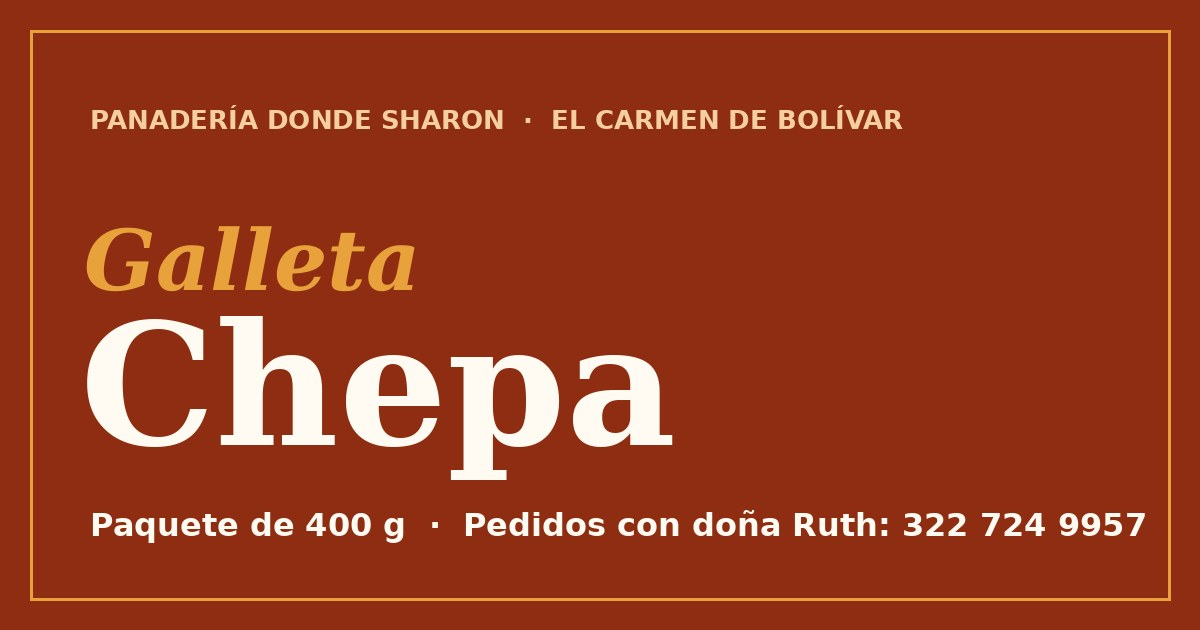
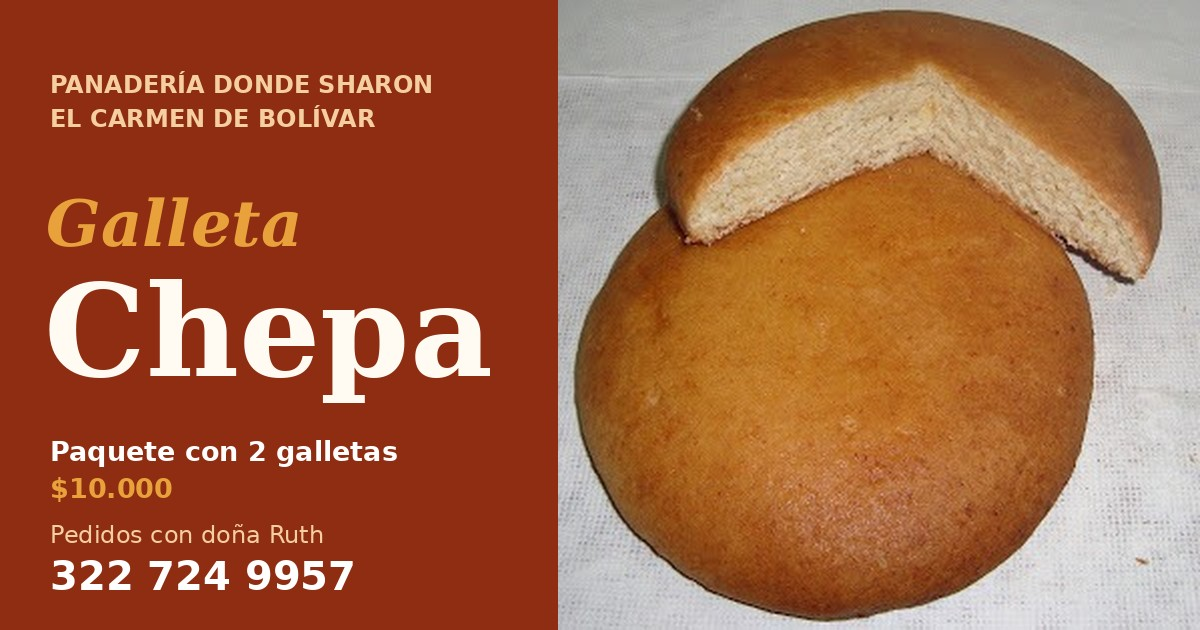
Foto real de la Galleta ChepaCorina, texto de la tradición y vista previa con la foto
Claude-Session: https://claude.ai/code/session_01Qv96KUHaLKGcvTpVN3B1SB

diff --git a/index.html b/index.html
@@ -62,6 +62,7 @@ a{color:inherit}
 @keyframes flota{0%,100%{transform:translateY(0) rotate(-2deg)}50%{transform:translateY(-10px) rotate(-1deg)}}
 .vitrina img{position:absolute;inset:0;width:100%;height:100%;object-fit:cover;border-radius:22px;box-shadow:0 30px 60px -20px rgba(0,0,0,.65);display:none}
 .vitrina.con-foto img{display:block}
+.vitrina.con-foto{aspect-ratio:1/1}
 .vitrina.con-foto .etiqueta{display:none}
 .etiqueta{position:absolute;inset:0;background:var(--papel);color:var(--cafe);border-radius:22px;box-shadow:0 30px 60px -20px rgba(0,0,0,.65);padding:14px;display:flex}
 .etiqueta .marco{flex:1;border:2px solid var(--horno);border-radius:12px;outline:1px solid var(--horno);outline-offset:-7px;display:flex;flex-direction:column;align-items:center;justify-content:space-between;text-align:center;padding:30px 18px}
@@ -177,7 +178,7 @@ footer b{color:var(--cafe)}
       </div>
     </div>
     <div class="vitrina" id="vitrina">
-      <img src="fotos/galleta-chepa.jpg" alt="Paquete de Galleta Chepa de 400 g" id="foto">
+      <img src="fotos/galleta-chepa.jpg" alt="Galleta ChepaCorina de la Panadería Donde Sharon, una entera y una partida" id="foto">
       <div class="etiqueta" aria-hidden="true">
         <div class="marco">
           <div class="casa">Panadería Donde Sharon</div>
@@ -196,8 +197,8 @@ footer b{color:var(--cafe)}
   <div class="wrap dos">
     <div class="aparece">
       <div class="rotulo" data-i18n="rotuloProducto">El producto</div>
-      <h2 data-i18n="tituloProducto">Cuatro ingredientes y el horno de siempre</h2>
-      <p data-i18n="textoProducto">En El Carmen de Bolívar la galleta de queso es tradición de casa. La Galleta Chepa de Donde Sharon se hace con lo justo, sin enredos, y llega en paquete de 400 gramos con dos galletas, lista para el tinto, la lonchera o la vitrina de tu tienda.</p>
+      <h2 data-i18n="tituloProducto">Una herencia de El Carmen de Bolívar</h2>
+      <p data-i18n="textoProducto">La Galleta ChepaCorina se hace en El Carmen de Bolívar desde tiempos inmemoriales. Los ancestros de esta tierra dejaron este manjar a las nuevas generaciones para seguir deleitando a nativos y visitantes con su sabor. En Donde Sharon llega en paquete de 400 gramos con dos galletas, lista para el tinto, la lonchera o la vitrina de tu tienda.</p>
     </div>
     <ul class="ingredientes aparece">
       <li><span data-i18n="ing1">Harina de trigo</span><small data-i18n="ing1b">fortificada</small></li>
@@ -291,8 +292,8 @@ footer b{color:var(--cafe)}
       origen:'Hecha en El Carmen de Bolívar', galleta:'Galleta',
       bajada:'La galleta de queso de la Panadería Donde Sharon, en paquete de 400 gramos con dos galletas. Pídela directo con doña Ruth.',
       porPaquete:'por paquete de 400 g · trae 2 galletas', hacerPedido:'Hacer mi pedido', llamar:'Llamar a doña Ruth',
-      rotuloProducto:'El producto', tituloProducto:'Cuatro ingredientes y el horno de siempre',
-      textoProducto:'En El Carmen de Bolívar la galleta de queso es tradición de casa. La Galleta Chepa de Donde Sharon se hace con lo justo, sin enredos, y llega en paquete de 400 gramos con dos galletas, lista para el tinto, la lonchera o la vitrina de tu tienda.',
+      rotuloProducto:'El producto', tituloProducto:'Una herencia de El Carmen de Bolívar',
+      textoProducto:'La Galleta ChepaCorina se hace en El Carmen de Bolívar desde tiempos inmemoriales. Los ancestros de esta tierra dejaron este manjar a las nuevas generaciones para seguir deleitando a nativos y visitantes con su sabor. En Donde Sharon llega en paquete de 400 gramos con dos galletas, lista para el tinto, la lonchera o la vitrina de tu tienda.',
       ing1:'Harina de trigo', ing1b:'fortificada', ing2:'Queso', ing2b:'leche en polvo', ing3:'Azúcar', ing4:'Agua',
       rotuloPedido:'Tu pedido', tituloPedido:'¿Cuántos paquetes te llevo?',
       cantidad:'Cantidad', notaCantidad:'Paquetes de Galleta Chepa de 400 g, cada uno trae 2 galletas', total:'Total',
@@ -310,8 +311,8 @@ footer b{color:var(--cafe)}
       origen:'Made in El Carmen de Bolívar', galleta:'Galleta',
       bajada:'The cheese cookie from Panadería Donde Sharon, in a 400-gram pack with two cookies. Order it straight from Doña Ruth.',
       porPaquete:'per 400 g pack · 2 cookies inside', hacerPedido:'Place my order', llamar:'Call Doña Ruth',
-      rotuloProducto:'The product', tituloProducto:'Four ingredients and the same old oven',
-      textoProducto:'In El Carmen de Bolívar the cheese cookie is a household tradition. Galleta Chepa from Donde Sharon is made with just what it needs and comes in a 400-gram pack with two cookies, ready for coffee, the lunchbox or your shop counter.',
+      rotuloProducto:'The product', tituloProducto:'A heritage from El Carmen de Bolívar',
+      textoProducto:'Galleta ChepaCorina has been made in El Carmen de Bolívar for as long as anyone can remember. The ancestors of this land passed this treat on to the new generations, who keep delighting locals and visitors with its flavor. At Donde Sharon it comes in a 400-gram pack with two cookies, ready for coffee, the lunchbox or your shop counter.',
       ing1:'Wheat flour', ing1b:'fortified', ing2:'Cheese', ing2b:'powdered milk', ing3:'Sugar', ing4:'Water',
       rotuloPedido:'Your order', tituloPedido:'How many packs shall I bring?',
       cantidad:'Quantity', notaCantidad:'400 g packs of Galleta Chepa, 2 cookies in each', total:'Total',

diff --git a/sw.js b/sw.js
@@ -1,7 +1,7 @@
 // Galleta Chepa - Panadería Donde Sharon
 // Red primero; si no hay señal, usa la copia guardada.
-var CACHE = 'chepa-v2';
-var BASE = ['./', 'index.html', 'manifest.json', 'icon-192.png', 'icon-512.png'];
+var CACHE = 'chepa-v3';
+var BASE = ['./', 'index.html', 'manifest.json', 'icon-192.png', 'icon-512.png', 'fotos/galleta-chepa.jpg'];
 
 self.addEventListener('install', function (e) {
   e.waitUntil(caches.open(CACHE).then(function (c) { return c.addAll(BASE); }));

diff --git a/README.md b/README.md
@@ -10,6 +10,6 @@ App de pedidos por WhatsApp para que doña Ruth venda la Galleta Chepa (paquete 
 
 - **Precio:** en `index.html`, la línea `var PRECIO = 10000;` (y el `$10.000` de la portada).
 - **Celular:** en `index.html`, la línea `var WHATSAPP = '573227249957';` y los enlaces `tel:`.
-- **Foto real del paquete:** subir la foto como `fotos/galleta-chepa.jpg`. La app la muestra sola en la portada; mientras no exista, muestra la etiqueta dibujada.
+- **Foto:** `fotos/galleta-chepa.jpg` es la foto de la portada. Para cambiarla, subir otra con el mismo nombre.
 
 Derechos de autor reservados © Vibras Positivas HM
